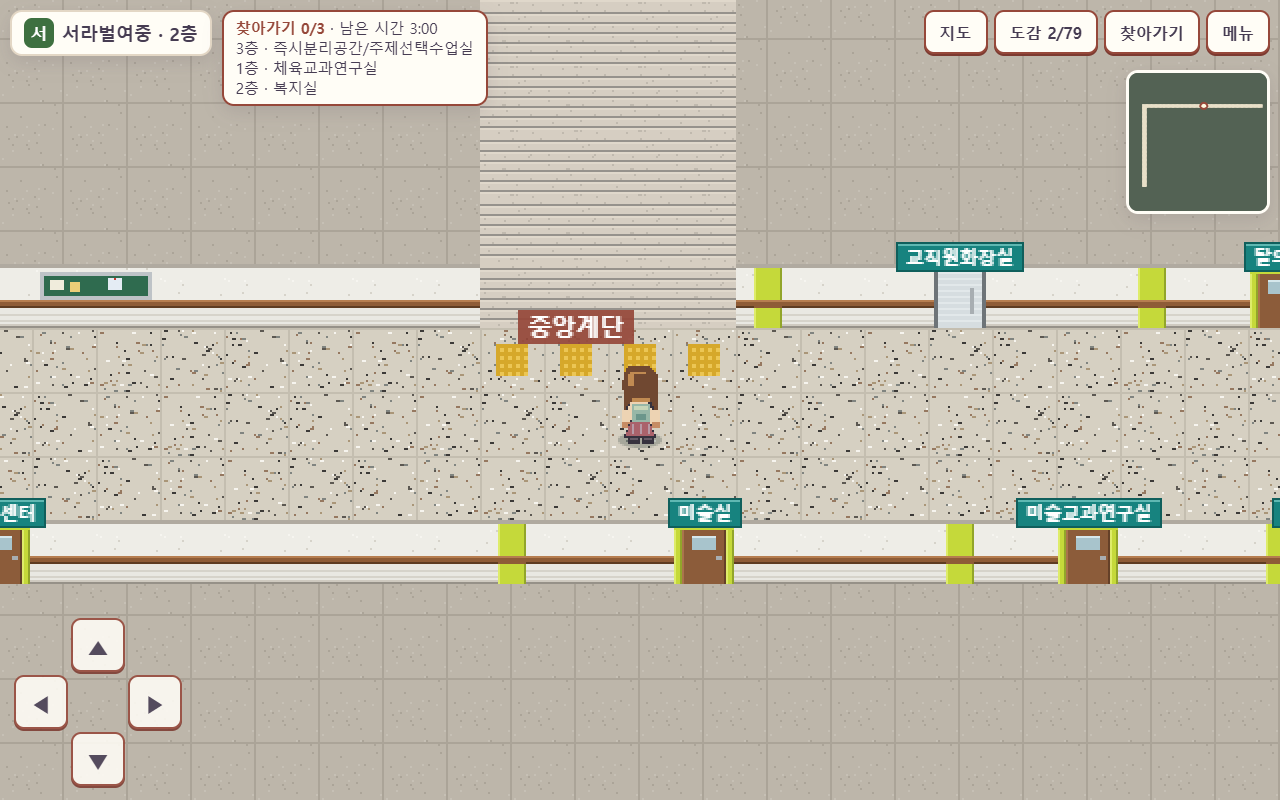
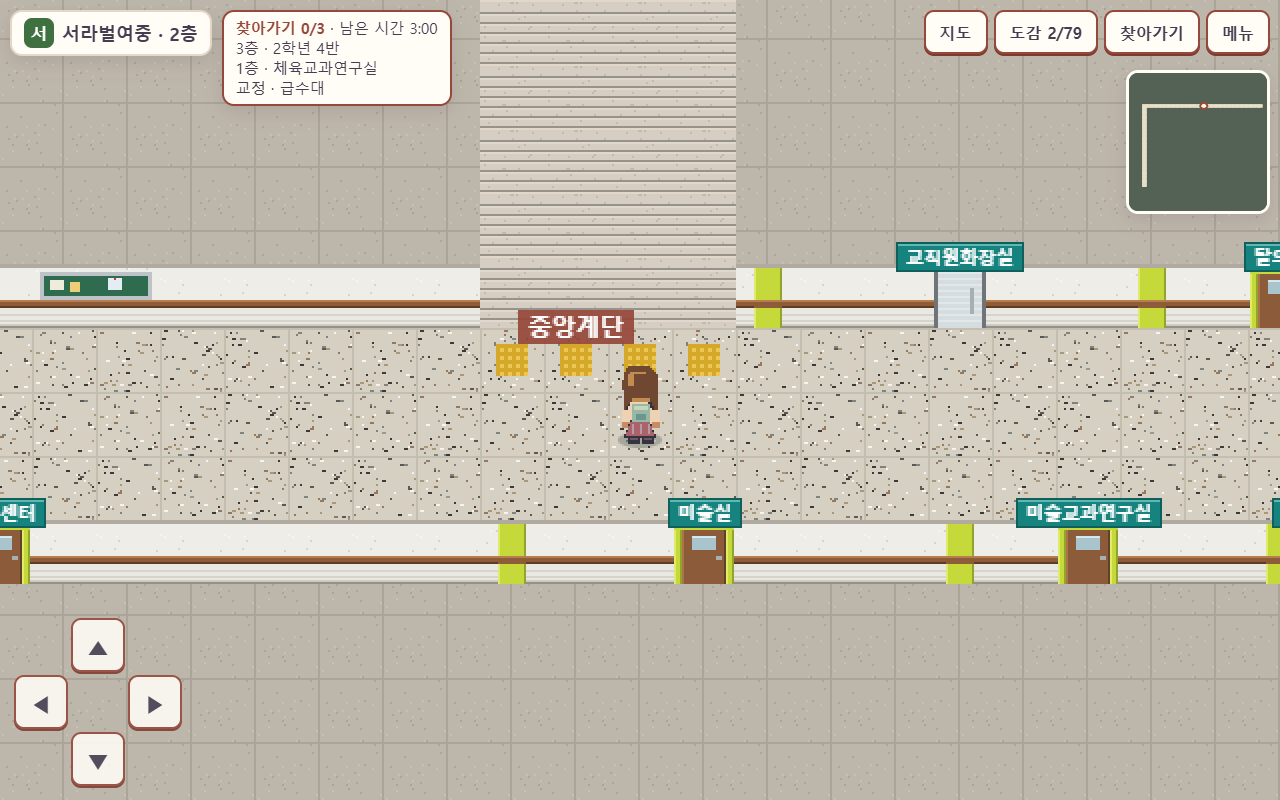
서라벌 탐방: 사이니지 브라우저에서 버튼 터치가 안 되던 문제 수정(짧은 터치를 클릭으로 변환)

Changed region(s): [[0.2188, 0.0, 0.4062, 0.1562], [0.1875, 0.0938, 0.25, 0.125]]

diff --git a/components/explore/js/util.js b/components/explore/js/util.js
@@ -64,6 +64,39 @@ window.SRB = SRB;
     }, false);
     el.addEventListener('click', function (e) { if (Date.now() - t0 > 800) fn(e); });
   };
+  /* Some signage browsers deliver touch events but never turn a tap into a click, so ordinary buttons
+     (map tabs, 지도/도감/메뉴, window buttons) did nothing. A short tap on a button-like element is
+     turned into a click here; the browser's own click (if any) is cancelled so nothing fires twice. */
+  (function tapToClick() {
+    var start = null;
+    function clickable(n) {
+      for (; n && n !== document; n = n.parentNode) {
+        if (n.getAttribute && n.getAttribute('data-notap') != null) return null;   // handled elsewhere (pad, title halves)
+        var tag = n.tagName;
+        if (tag === 'BUTTON' || tag === 'A' || tag === 'LABEL' || tag === 'SELECT') return n;
+        if (tag === 'INPUT') return n.type === 'checkbox' || n.type === 'radio' || n.type === 'button' ? n : null;   // text fields keep the keyboard
+        if (n.onclick) return n;
+      }
+      return null;
+    }
+    document.addEventListener('touchstart', function (e) {
+      var t = e.touches.length === 1 ? e.touches[0] : null;
+      start = t ? { x: t.clientX, y: t.clientY, at: Date.now(), el: clickable(e.target) } : null;
+    }, true);
+    document.addEventListener('touchmove', function (e) {
+      var t = e.touches[0];
+      if (start && t && (Math.abs(t.clientX - start.x) > 14 || Math.abs(t.clientY - start.y) > 14)) start = null;
+    }, true);
+    document.addEventListener('touchend', function (e) {
+      var s = start; start = null;
+      if (!s || !s.el || Date.now() - s.at > 900 || s.el.disabled) return;
+      var t = e.changedTouches[0], el = clickable(document.elementFromPoint(t.clientX, t.clientY) || e.target);
+      if (el !== s.el) return;
+      e.preventDefault();
+      if (el.tagName === 'LABEL' && el.control) el = el.control;
+      el.click();
+    }, true);
+  })();
   U.images = {};
   U.loadImage = function (name) {
     return new Promise(function (ok, fail) {

diff --git a/components/explore/index.html b/components/explore/index.html
@@ -23,7 +23,7 @@
       </nav>
     </header>
     <canvas id="mini" width="144" height="144" aria-label="미니맵"></canvas>
-    <div class="pad" id="pad" aria-label="방향 패드">
+    <div class="pad" id="pad" aria-label="방향 패드" data-notap>
       <button data-dir="up" type="button" aria-label="위">▲</button>
       <button data-dir="left" type="button" aria-label="왼쪽">◀</button>
       <button data-dir="right" type="button" aria-label="오른쪽">▶</button>

diff --git a/docs/EXPLORE-REPORT.md b/docs/EXPLORE-REPORT.md
@@ -46,7 +46,7 @@
   - 중앙현관: 큰 바닥 타일, 양옆 나무 벽, 유리 출입문 두 쌍과 가운데 시계, 사이니지 거치대, 화분, 안내 배너, "힘써 배우고 바르게 행하자" 액자.
   - 방송실: 어두운 바닥, ON AIR 등이 달린 부스 창, 부스 문, 모니터가 놓인 방송 책상, 장비 랙, 벽 패널, 연두색 의자.
   - 생성은 `tools/build_explore_data.py`가 함께 합니다(그림 `assets/interior-tiles.png`, `interior-props.png`). 스크린샷 `docs/screenshots-explore/20~24`, 확인 스크립트 `tests/interior_screens.cjs`.
-- **터치:** 오래된 내장 브라우저(Pointer Events 없음)에서도 터치가 되도록 모든 입력을 `U.press`(Pointer Events → 없으면 터치·마우스)로 받습니다. 방향 패드·창 배치는 CSS Grid 대신 절대 위치·flex, 색은 8자리 HEX 대신 rgba를 씁니다. 확인: `tests/touch_check.cjs`.
+- **터치:** 오래된 내장 브라우저(Pointer Events 없음)에서도 터치가 되도록 모든 입력을 `U.press`(Pointer Events → 없으면 터치·마우스)로 받습니다. 방향 패드·창 배치는 CSS Grid 대신 절대 위치·flex, 색은 8자리 HEX 대신 rgba를 씁니다. 또 사이니지 브라우저는 터치를 클릭으로 바꿔 주지 않아서, 버튼(지도 탭·지도/도감/메뉴·창 버튼·체크박스)은 짧은 터치를 클릭으로 바꾸는 처리(`util.js`의 tapToClick)를 거칩니다. 확인: `tests/touch_check.cjs`(포인터 이벤트 없음 + 터치가 클릭이 되지 않는 브라우저 흉내).
 - **저장:** 이 기기 localStorage에만 익명으로 저장합니다(도감, 최고 기록, 캐릭터). 메뉴에서 지울 수 있습니다.
 
 ## 4. 학교 전체 지도
